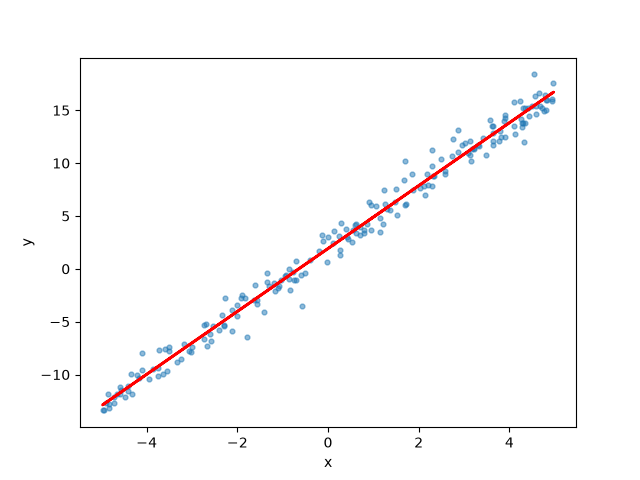
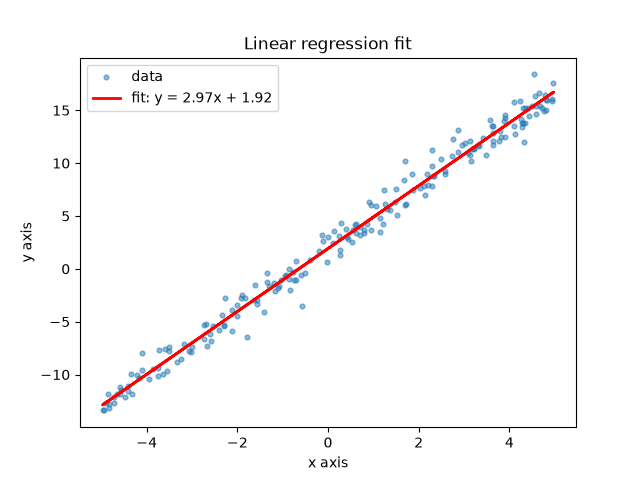
update to repo

diff --git a/test_regression.py b/test_regression.py
@@ -1,23 +1,29 @@
-#The finite-difference check estimates a gradient as:
-#(L(w + h) − L(w)) / h for tiny h
-
 import numpy as np
-from regression import make_data, gradients, loss
-
-x, y = make_data()
-
-w = 0.0
-b = 0.0
-h = 1e-5
-
-dw_numeric = (loss(w + h, b, x, y) - loss(w, b, x, y)) / h
-db_numeric = (loss(w, b + h, x, y) - loss(w, b, x, y)) / h
-dw_analytic, db_analytic = gradients(w, b, x, y)
-
-print("Numeric gradients:", dw_numeric, db_numeric)
-print("Analytic gradients:", dw_analytic, db_analytic)
-
+from regression import make_data, gradients, loss, train
 
 def test_gradients():
+    x, y = make_data()
+
+    w = 1.3
+    b = -0.7
+    h = 1e-5
+
+    dw_numeric = (loss(w + h, b, x, y) - loss(w, b, x, y)) / h
+    db_numeric = (loss(w, b + h, x, y) - loss(w, b, x, y)) / h
+    dw_analytic, db_analytic = gradients(w, b, x, y)
+
+    print("Numeric gradients:", dw_numeric, db_numeric)
+    print("Analytic gradients:", dw_analytic, db_analytic)
+
+
+
     assert np.isclose(dw_numeric, dw_analytic, rtol=1e-4, atol=1e-6)
     assert np.isclose(db_numeric, db_analytic, rtol=1e-4, atol=1e-6)
+
+def test_training_matches_polyfit():
+    x, y = make_data()
+    w, b = np.polyfit(x, y, 1)
+    w_train, b_train, _ = train(x, y, steps=1000, lr=0.05)
+
+    assert np.isclose(w_train, w, rtol=1e-6, atol=1e-2)
+    assert np.isclose(b_train, b, rtol=1e-6, atol=1e-2)

diff --git a/regression.py b/regression.py
@@ -23,7 +23,7 @@ def train(x, y, steps = 100, lr = 0.05):
     losses = []
     for step in range(steps):
         losses.append(loss(w, b, x, y))
-        if step % 10 == 0:
+        if step % 20 == 0:
             print(step, w, b, loss(w, b, x, y))
         dw, db = gradients(w, b, x, y)
         w -= lr * dw
@@ -35,17 +35,23 @@ if __name__ == "__main__":
     x, y = make_data()
     w, b, losses = train(x, y)
     print("\n",w, b, losses[-1])
-    plt.figure()                 # start a new, blank picture
-    plt.plot(losses)     # one list → a line, x = 0, 1, 2, … automatically
+
+    plt.figure()
+    plt.plot(losses)
     plt.yscale("log")
-    plt.xlabel("step")           # axis labels
+    plt.xlabel("step")
     plt.ylabel("loss")
-    plt.savefig("loss.png")   # write it to a file
-    plt.close()                  # finish this picture before starting the next one
+    plt.title("Training loss")
+    plt.legend(["loss"])
+    plt.savefig("loss.png")
+    plt.close()
+
     plt.figure()
     plt.scatter(x, y, s=12, alpha=0.5, label="data")
     plt.plot(x, w * x + b, color="red", linewidth=2, label=f"fit: y = {w:.2f}x + {b:.2f}")
-    plt.xlabel("x")           # axis labels
-    plt.ylabel("y")
+    plt.xlabel("x axis")
+    plt.ylabel("y axis")
+    plt.title("Linear regression fit")
+    plt.legend()
     plt.savefig("fit.png")
     plt.close()

diff --git a/README.md b/README.md
@@ -1,3 +1,24 @@
-Linear regression from scratch, trained with hand derived gradient descent.
+Linear regression from scratch, trained with hand derived gradient descent in raw numpy.
 
-using 3x + 2 as the basic formula, I created randomized test data, and applied gradient descent until it found the formula from the noise, used matplot to make graphs of the data
+Formulas:
+e = (wx + b - y)
+change in loss per change in weights = 1/n * sum(2 * e * x)
+change in loss per change in biases  = 1/n * sum(2 * e)
+
+Results:
+Using a dataset where y = wx + b - y; where w, and b are given variables 3 and 2, and y is a random float from 0 to 1
+100 steps of gradient descent learned that w should be ~2.97 and b should be 1.92
+this is because of the seed value for the random numbers, and will change if a different seed is used
+
+Images:
+[loss curve](loss.png)
+[fit](fit.png)
+
+How to Run:
+$ uv run regression.py
+$ uv run pytest
+
+What I Learned:
+Matplot graphing and images
+Gradient exploding
+Scalar noise adds a loss floor
